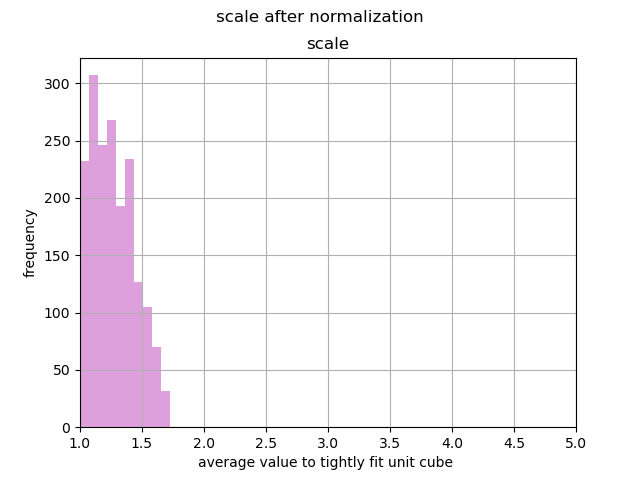
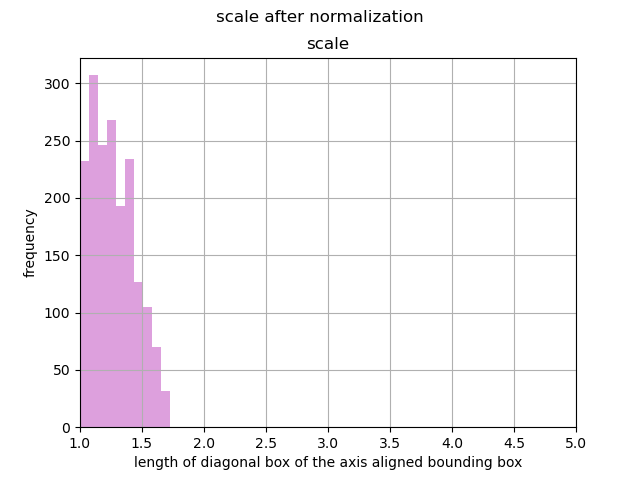
flip and scale correct

Changed region(s): [[0.2188, 0.9375, 0.8125, 1.0]]

diff --git a/normalised_hist.py b/normalised_hist.py
@@ -87,7 +87,7 @@ df.hist(column=["scale"], color='plum')
 plt.xlim([1, 5])
 plt.suptitle(plt_name, fontsize=fontsize)
 plt.ylabel("frequency")
-plt.xlabel("average value to tightly fit unit cube ")
+plt.xlabel("length of diagonal box of the axis aligned bounding box")
 plt.savefig("resample_plots/scaling_after")
 plt.show()
 

diff --git a/histograms.py b/histograms.py
@@ -91,7 +91,7 @@ plt.suptitle(plt_name, fontsize=fontsize)
 #plt.xlim([1, 2])
 #plt.axis([xmin, xmax, ymin, ymax])
 plt.ylabel("frequency")
-plt.xlabel("average value to tightly fit unit cube ")
+plt.xlabel("length of diagonal box of the axis aligned bounding box")
 plt.savefig("resample_plots/scaling_before")
 plt.show()
 
